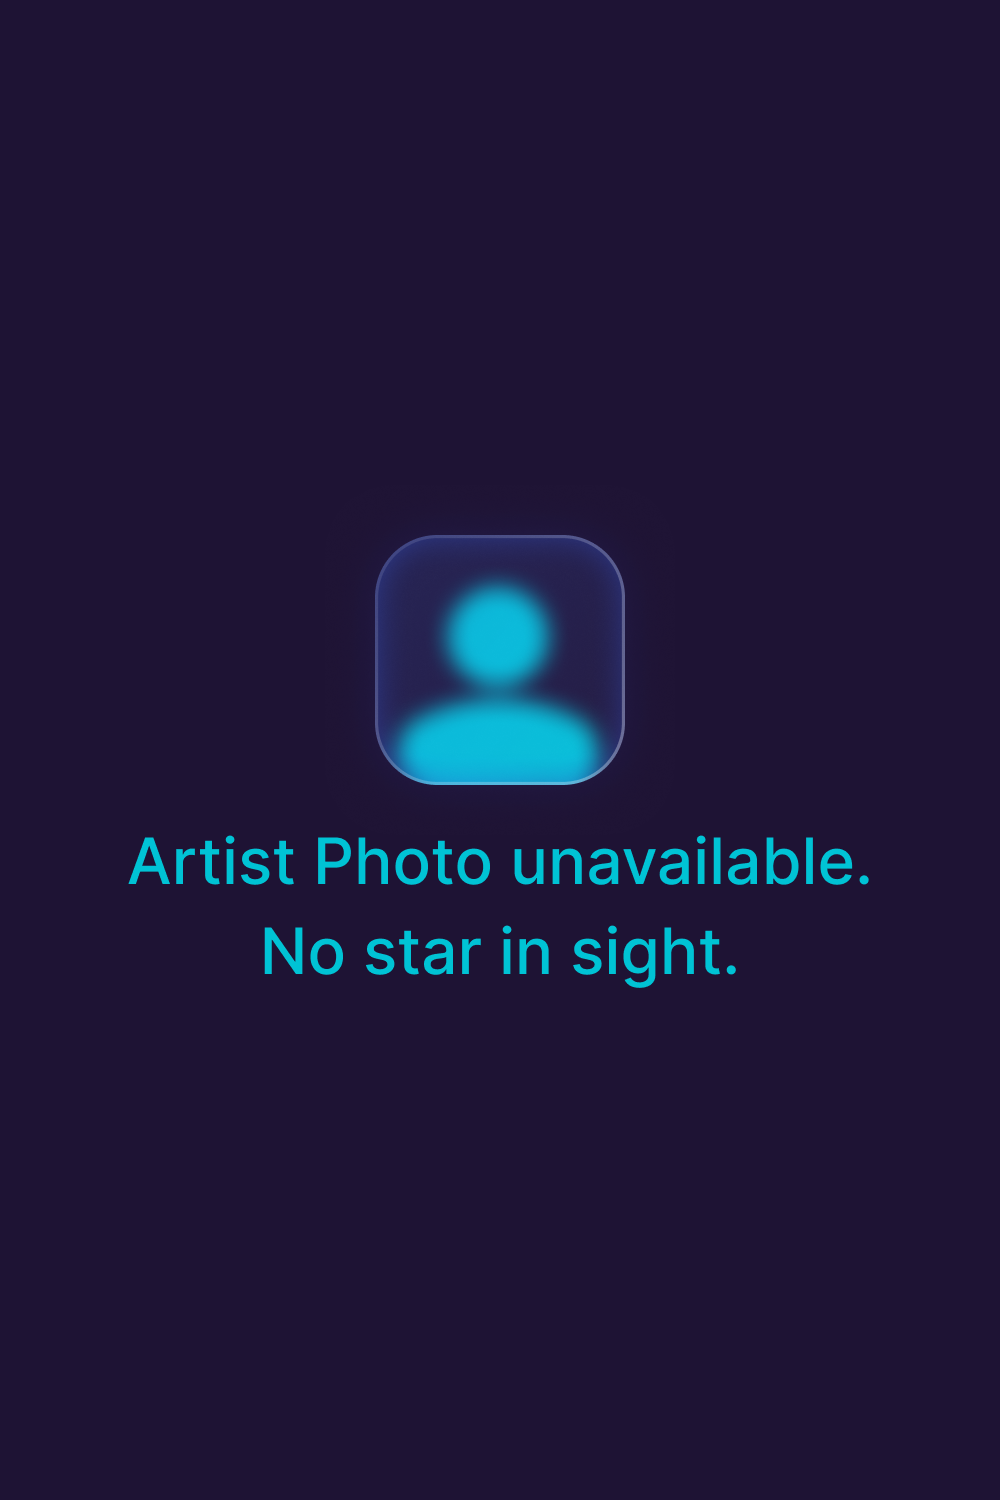
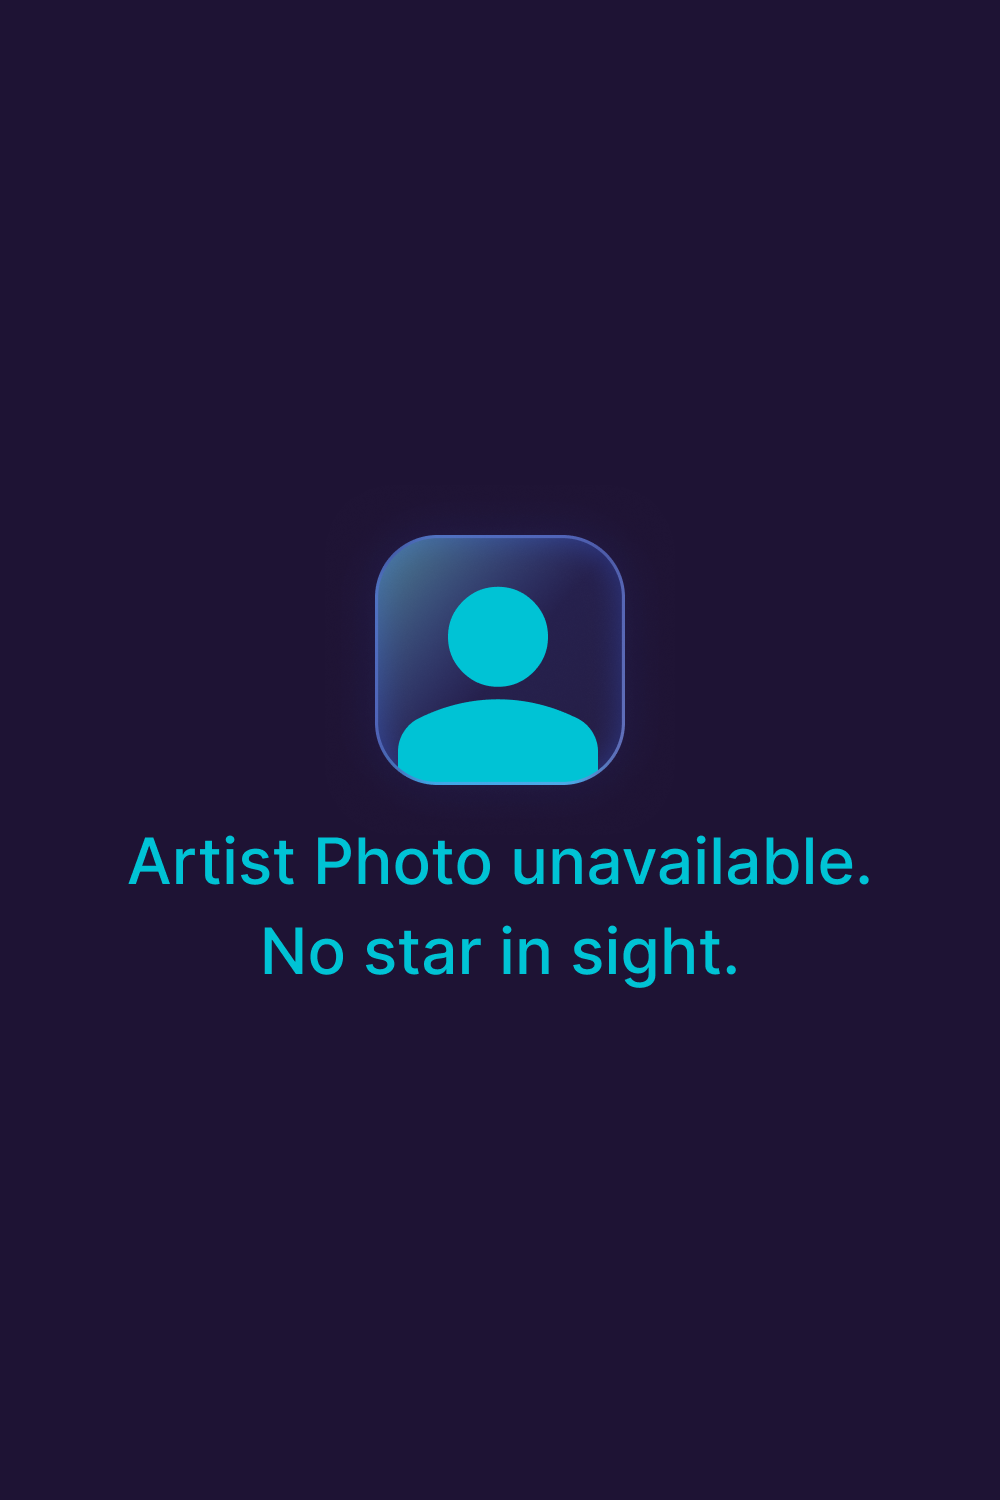
Wire fallback src into MovieCard, HeroCarousel, MovieDetail, and ArtistCard whenever TMDB has no image/trailer for that field

Changed region(s): [[0.372, 0.3373, 0.62, 0.5213]]

diff --git a/src/pages/MovieDetail/MovieDetail.jsx b/src/pages/MovieDetail/MovieDetail.jsx
@@ -11,6 +11,9 @@ import useIsMobile from '../../hooks/useIsMobile';
 import BookmarkButton from '../../components/BookmarkButton/BookmarkButton';
 import ShareButton from '../../components/ShareButton/ShareButton';
 import backIcon from '../../assets/icons/back-icon-outline.svg';
+import posterFallback from '../../assets/fallbacks/poster-fallback.png';
+import backdropFallback from '../../assets/fallbacks/backdrop-fallback.png';
+import trailerFallback from '../../assets/fallbacks/trailer-fallback.png';
 import './MovieDetail.scss';
 
 function MovieDetail() {
@@ -87,9 +90,12 @@ function MovieDetail() {
         {/* Backdrop is never shown on mobile (hidden via CSS), so skip
             downloading it there entirely. Tablet gets the smaller w1280
             version, desktop gets the full-resolution original. */}
-        {!isMobile && movie.backdropUrl && (
+        {!isMobile && (
           <img
-            src={isBelowDesktop ? movie.backdropUrlTablet : movie.backdropUrl}
+            src={
+              (isBelowDesktop ? movie.backdropUrlTablet : movie.backdropUrl) ||
+              backdropFallback
+            }
             alt=""
             className="movieDetail__backdrop"
           />
@@ -104,9 +110,9 @@ function MovieDetail() {
           </Link>
 
           {/* Only shown on mobile (CSS hides it at tablet+), so only load it there */}
-          {isMobile && movie.posterUrl && (
+          {isMobile && (
             <img
-              src={movie.posterUrl}
+              src={movie.posterUrl || posterFallback}
               alt=""
               className="movieDetail__heroImage"
             />
@@ -116,9 +122,9 @@ function MovieDetail() {
 
           <div className="movieDetail__card">
             {/* Only shown at tablet+ (CSS hides it on mobile), so only load it there */}
-            {!isMobile && movie.posterUrl && (
+            {!isMobile && (
               <img
-                src={movie.posterUrl}
+                src={movie.posterUrl || posterFallback}
                 alt=""
                 className="movieDetail__cardPoster"
               />
@@ -142,9 +148,9 @@ function MovieDetail() {
               <div className="movieDetail__metaLine">
                 <span
                   className="movieDetail__rating"
-                  aria-label={`User Score: ${Math.round(
-                    movie.voteAverage * 10,
-                  )}%`}
+                  aria-label={
+                    'User Score: ' + Math.round(movie.voteAverage * 10) + '%'
+                  }
                 >
                   ★ {Math.round(movie.voteAverage * 10)}%
                 </span>
@@ -184,12 +190,12 @@ function MovieDetail() {
           </div>
         </div>
 
-        {trailer && (
+        {trailer ? (
           <div className="movieDetail__trailerWrap">
             {isTrailerPlaying ? (
               <iframe
                 src={trailer.embedUrl + '?autoplay=1'}
-                title={`${movie.title} trailer`}
+                title={movie.title + ' trailer'}
                 className="movieDetail__trailerFrame"
                 allow="autoplay; encrypted-media"
                 allowFullScreen
@@ -199,10 +205,14 @@ function MovieDetail() {
                 type="button"
                 className="movieDetail__trailerPreview"
                 onClick={() => setIsTrailerPlaying(true)}
-                aria-label={`Play trailer for ${movie.title}`}
+                aria-label={'Play trailer for ' + movie.title}
               >
                 <img
-                  src={`https://img.youtube.com/vi/${trailer.key}/hqdefault.jpg`}
+                  src={
+                    'https://img.youtube.com/vi/' +
+                    trailer.key +
+                    '/hqdefault.jpg'
+                  }
                   alt=""
                   className="movieDetail__trailerThumb"
                 />
@@ -225,6 +235,14 @@ function MovieDetail() {
                 </span>
               </button>
             )}
+          </div>
+        ) : (
+          <div className="movieDetail__trailerWrap">
+            <img
+              src={trailerFallback}
+              alt=""
+              className="movieDetail__trailerFrame movieDetail__trailerThumb"
+            />
           </div>
         )}
 

diff --git a/src/components/MovieCard/MovieCard.jsx b/src/components/MovieCard/MovieCard.jsx
@@ -3,6 +3,7 @@ import useIsMobile from '../../hooks/useIsMobile';
 import MoreInfoButton from '../MoreInfoButton/MoreInfoButton';
 import BookmarkButton from '../BookmarkButton/BookmarkButton';
 import ShareButton from '../ShareButton/ShareButton';
+import posterFallback from '../../assets/fallbacks/poster-fallback.png';
 import './MovieCard.scss';
 
 // Added onRemove so the Watchlist can update when a movie is removed
@@ -44,7 +45,7 @@ function MovieCard({ movie, onRemove }) {
     >
       <img
         className="movieCard__poster"
-        src={movie.poster_path}
+        src={movie.poster_path || posterFallback}
         alt={movie.title}
       />
 
@@ -72,7 +73,9 @@ function MovieCard({ movie, onRemove }) {
       <div className="movieCard__topRow">
         <div
           className="movieCard__rating"
-          aria-label={`User Score: ${Math.round(movie.vote_average * 10)}%`}
+          aria-label={
+            'User Score: ' + Math.round(movie.vote_average * 10) + '%'
+          }
         >
           <span>★ {Math.round(movie.vote_average * 10)}%</span>
         </div>

diff --git a/src/components/HeroCarousel/HeroCarousel.jsx b/src/components/HeroCarousel/HeroCarousel.jsx
@@ -2,6 +2,8 @@ import { useEffect, useRef, useState } from 'react';
 import useIsMobile from '../../hooks/useIsMobile';
 import MoreInfoButton from '../MoreInfoButton/MoreInfoButton';
 import BookmarkButton from '../BookmarkButton/BookmarkButton';
+import posterFallback from '../../assets/fallbacks/poster-fallback.png';
+import backdropFallback from '../../assets/fallbacks/backdrop-fallback.png';
 import './HeroCarousel.scss';
 
 const AUTO_ADVANCE_DELAY = 8000; // ms between auto-advances
@@ -30,9 +32,9 @@ function HeroCarousel({ movies }) {
   // portrait poster, tablet gets a mid-size backdrop, desktop gets the
   // full-resolution backdrop (it stretches edge-to-edge on wide screens).
   const getHeroImage = (m) => {
-    if (isMobile) return m.poster;
-    if (isBelowDesktop) return m.backdropTablet;
-    return m.backdrop;
+    if (isMobile) return m.poster || posterFallback;
+    if (isBelowDesktop) return m.backdropTablet || backdropFallback;
+    return m.backdrop || backdropFallback;
   };
 
   const movie = movies[currentIndex];

diff --git a/src/components/ArtistCard/ArtistCard.jsx b/src/components/ArtistCard/ArtistCard.jsx
@@ -1,10 +1,10 @@
+import artistFallback from '../../assets/fallbacks/artist-fallback.png';
 import './ArtistCard.scss';
 
 function ArtistCard({ actor }) {
-  // TODO: Replace with the team's placeholder image once it has been added.
   const profileImage = actor.profilePath
-    ? `https://image.tmdb.org/t/p/w500${actor.profilePath}`
-    : undefined;
+    ? 'https://image.tmdb.org/t/p/w500' + actor.profilePath
+    : artistFallback;
 
   return (
     <article className="artistCard">
